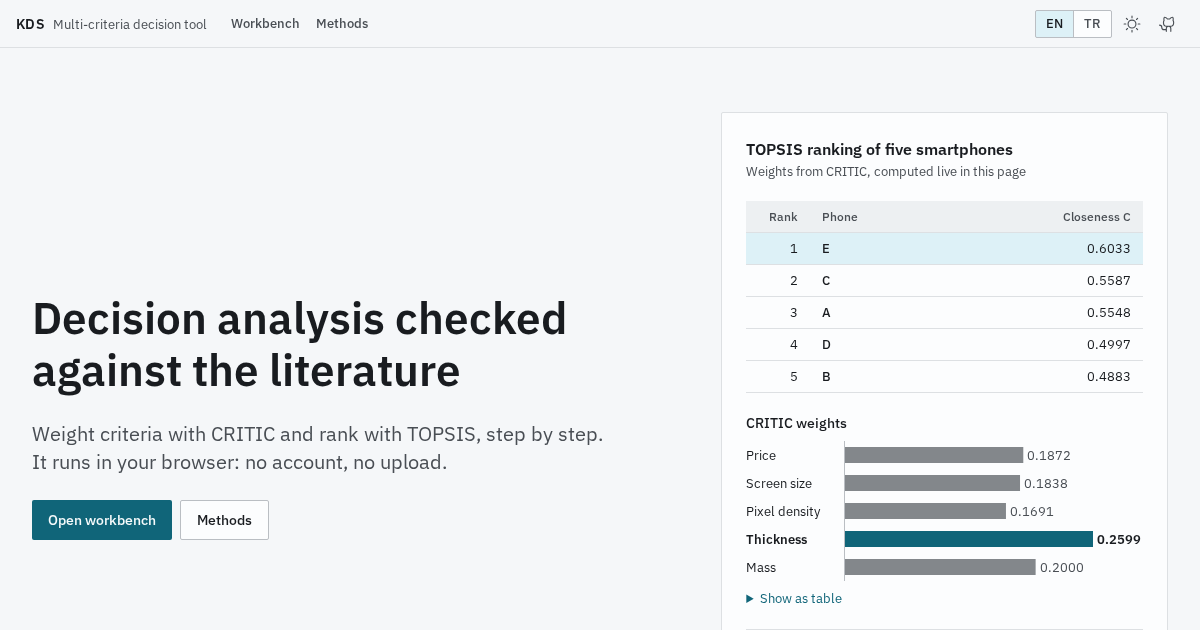
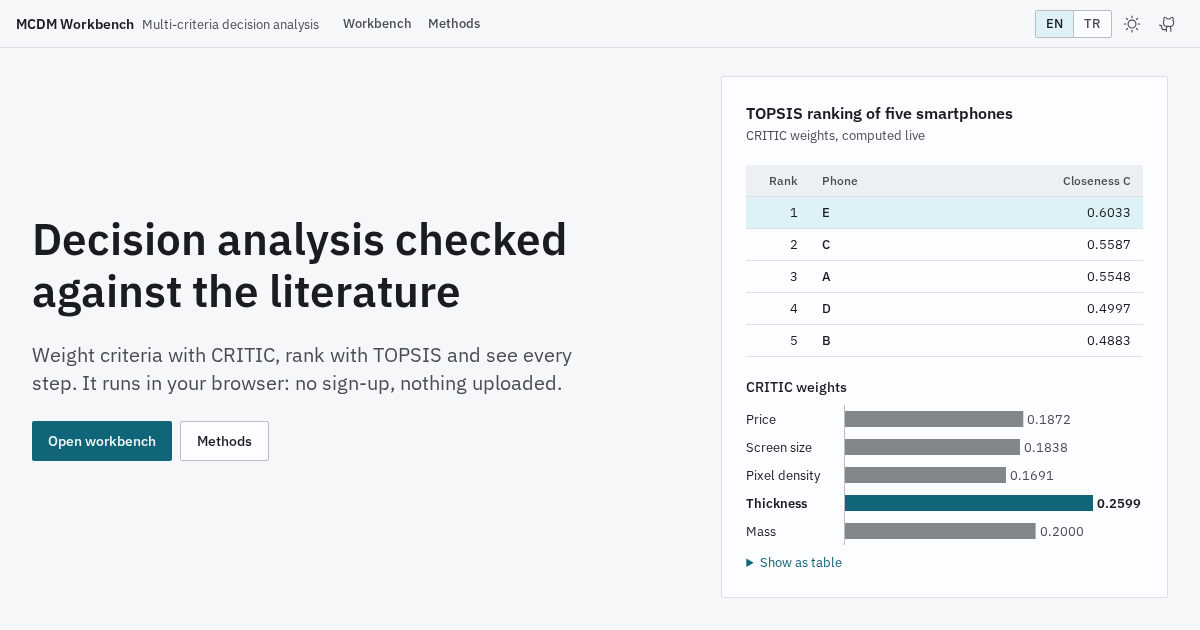
Regenerate the OG image from the new landing hero; note the rename, 'siz' and the prerender in FOUNDATION.md (review F4, P19)

diff --git a/index.html b/index.html
@@ -9,7 +9,7 @@
     <link rel="icon" type="image/svg+xml" href="%BASE_URL%favicon.svg" />
     <!-- Sharing preview. The pages update title and description per route and language at runtime;
          crawlers that do not run scripts see these English defaults. public/og.png is a real
-         screenshot of the landing page at 1200 x 630 (pnpm shot). -->
+         screenshot of the landing hero at 1200 x 630 (light, English). -->
     <meta property="og:type" content="website" />
     <meta property="og:site_name" content="MCDM Workbench" />
     <meta property="og:title" content="MCDM Workbench: multi-criteria decision analysis in the browser" />

diff --git a/docs/design/FOUNDATION.md b/docs/design/FOUNDATION.md
@@ -78,7 +78,7 @@ empty, disabled) and both table densities.
 
 ## Shell
 
-- `TopBar`: 48 px; wordmark "KDS" + product name (from 640 px), Workbench and Methods links
+- `TopBar`: 48 px; wordmark "MCDM Workbench" ("MCDM" below 640 px) + subtitle (from 1024 px), Workbench and Methods links
   (`aria-current="page"`), TR/EN segmented control, theme menu (System / Light / Dark), GitHub link
   (from 640 px; the landing footer should carry the source link for phones). Skip link to `#main`.
 - `WorkbenchLayout` (`src/app/shell/WorkbenchLayout.tsx`): props `stage`, `onStageChange`, `stageMeta`
@@ -92,6 +92,8 @@ empty, disabled) and both table densities.
   Route components are stubs to be replaced.
 - GitHub Pages: `base` is `/kds-topsis-critic/` for `build` and `preview`, `/` for dev. The build copies
   `dist/index.html` to `dist/404.html`, so deep links boot the app without a hash router or redirect.
+  Then it prerenders the home page into `dist/index.html` (EN in `#root`, TR in a template;
+  `src/app/prerender.tsx`, `vite.config.ts`), and preloads the Plex Sans faces of the first screen.
 - `index.html` has an inline script that applies the saved theme and language before first paint.
 
 ## Theme
@@ -125,8 +127,9 @@ localStorage `kds.theme`.
   - A test (`tests/i18n.test.ts`) checks: same keys and same `{{vars}}` in both files, no em or en dash,
     no emoji, no empty strings, a few banned buzzwords, and that every core step key, warning code and
     validation code has a string. Add new strings to both files.
-- Turkish copy uses "sen", "kriter", "fayda / maliyet", "ağırlık"; "kütle" for mass (so it never
-  collides with "ağırlık" = weight).
+- Turkish copy addresses the reader as "siz" (owner decision, 29.09; short button labels stay in
+  the plain imperative, "Çalışma alanını aç"), and uses "kriter", "fayda / maliyet", "ağırlık";
+  "kütle" for mass (so it never collides with "ağırlık" = weight).
 - Numbers (`src/i18n/number.ts`, re-exported from `src/i18n`):
   - `useNumberFormat(decimals = 4)` returns `{ lang, format(v, d?), formatRaw(v), parse(text), isAmbiguous(text) }`.
   - `formatNumber(v, lang, decimals)`: fixed decimals, grouping, `''` for null / NaN, never `-0`.
